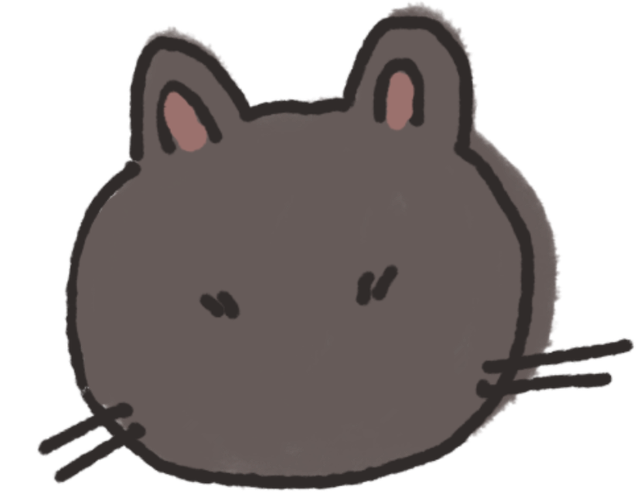
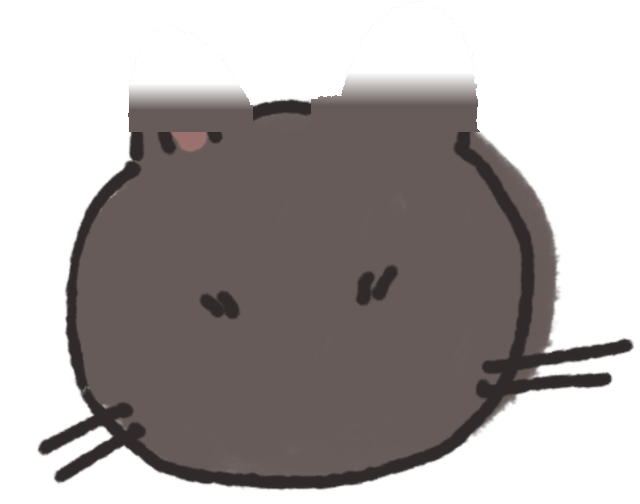
Ears go back to being an idle tell, and the drawn fold becomes a rare beat
Ear movement was reading as pet feedback: the artist's squash folds the ears as
part of one drawn gesture, so every tap spent the gesture and idle Hex never
moved her ears at all. In prod it was the other way round — a rare, unprompted
twitch that was hers rather than the player's. This puts it back.

The day coat is split into a head plus two ear layers. The head keeps a soft
collar of flat coat where each ear sat, so a moving ear reveals coat instead of a
hole — the same trick the old vector cat used with an unstroked headFill. Only
the day coat is split: she sleeps at night, the night art has no ear motion to
drive, and the old rig rested the ears at night too.

The gesture is a PERK — each ear scales up from its base — not the old rig's
rotation. Rotating a slice cut out of one continuous hand-drawn stroke always
nicks the line where the cut was, and at Hex's real size that nick is plainly
visible; scaling from the base leaves the join pixels exactly where they are, so
the outline stays whole. "Ears prick up" says what the flick was saying anyway.
earFlick is the twitch, earSwivel the held perk while prey is on screen; they add
rather than override, and each ear keeps its own schedule so they fire out of
sync.

The squash is graded to match. The ear fold cannot be subtracted from the drawn
frames, so instead an ordinary tap is clamped to the gentlest of them, where the
ears barely move, and the full three-frame fold is held back for the two beats
[…]

Changed region(s): [[0.4688, 0.0, 0.75, 0.2679], [0.1875, 0.0595, 0.4062, 0.2679]]

diff --git a/apps/hex-clicker/src/cat.js b/apps/hex-clicker/src/cat.js
@@ -8,6 +8,8 @@ import {
   hexCatEl,
   catMotionEl,
   catFaceEl,
+  earLeftEl,
+  earRightEl,
   irisLeftEl,
   irisRightEl,
   eyeLeftEl,
@@ -18,8 +20,12 @@ import { nightActive, zoomBuff } from "./state.js";
 import { goldState } from "./golden.js";
 import { petState } from "./pet.js";
 
-// Pet -> cat animation channel: pet() sets it, updateCat eases it back down.
-export const anim = { squash: 0 };
+// Pet -> cat animation channel: pet() sets these, updateCat eases squash back
+// down. `stir` is how BIG the reaction is, not how far through it we are: 0 is an
+// ordinary tap, 1 is one of the two beats the game already calls a bigger
+// reaction (a sustained day streak, or the night's annoyed grumble). It picks
+// which squash frames are allowed to play — see SQUASH_FRAMES.
+export const anim = { squash: 0, stir: 0 };
 
 // ---------------------------------------------------------------------------
 // CAT rendering — the SVG (#hexCat) is static markup; this just toggles
@@ -49,11 +55,21 @@ const PUPIL_ROUND = 1.14; // dilated
 // `anim.squash` decays 1 -> 0 at 0.08/frame (~12 frames, ~200ms), and these
 // thresholds cut that into three held steps plus the return to rest. Descending
 // order, because squash counts DOWN: hardest flatten first, easing back up.
+// GRADED, because the artist's squash folds the ears as part of the same drawn
+// gesture and there is no way to subtract them from it. Ear movement is supposed
+// to be an idle tell — rare, and hers rather than the player's — so the full
+// three-frame fold is held back for the two beats the game already treats as a
+// bigger reaction, and an ordinary tap only ever reaches the gentlest frame,
+// where the ears barely move. Petting still squashes on every tap; what it stops
+// doing is spending the ear gesture every time.
 const SQUASH_FRAMES = [
   [0.62, "s3"],   // flattest — ears folded right back
   [0.38, "s2"],
   [0.15, "s1"],   // barely dented; below this she's at rest
 ];
+// An ordinary tap is clamped to this one. Same decay, same timing — it just
+// never reaches for the harder two.
+const SQUASH_GENTLE = "s1";
 
 // ---------------------------------------------------------------------------
 // IDLE ANIMATIONS — one flag each, all independent. These are cat behaviours
@@ -70,7 +86,8 @@ export const IDLE = {
   yawn: true,             // one big yawn as she drops into the night phase
   dreamTwitch: true,      // rare whole-head jerk while dreaming
   headTilt: true,         // an occasional curious tip of the head
-  earSwivel: true,        // orients toward a golden mouse
+  earFlick: true,         // quick independent ear twitches
+  earSwivel: true,        // ears prick toward a golden mouse
 };
 // Three of these were named for parts the vector cat had as separate shapes and
 // the drawn cat has as painted pixels — there is no jaw, no whisker path and no
@@ -79,11 +96,10 @@ export const IDLE = {
 // quiver, whiskersForward became a lean, earSwivel became a head turn. The
 // flags keep their old names so the table still reads as a list of cat
 // behaviours rather than a list of transforms.
-// `earFlick` is the one that did NOT survive. It was two ears twitching
-// INDEPENDENTLY and out of sync with each other, and there is no honest way to
-// say that with one head — a whole-head twitch is the dream twitch, which
-// already exists. The squash frames fold her ears when she's petted; that is
-// the ear motion this art ships with.
+// `earFlick` and `earSwivel` are back on real ear elements — the day coat is
+// split into a head plus two ear layers, so the ears move on their own again.
+// Both are expressed as a perk from the ear's base rather than a rotation; see
+// updateEars for why.
 
 const SLOW_BLINK_MS = 1100;
 const PURR_MS = 900;              // purr keeps going this long after the last pet
@@ -139,8 +155,10 @@ export function updateCat(t) {
   // onto a black one for two frames.
   let pose = "day";
   if (asleep) pose = "night";
-  else for (const [threshold, name] of SQUASH_FRAMES)
-    if (anim.squash >= threshold) { pose = name; break; }
+  else if (anim.squash >= 0.15)
+    pose = anim.stir >= 1
+      ? SQUASH_FRAMES.find(([threshold]) => anim.squash >= threshold)[1]
+      : SQUASH_GENTLE;
   if (hexCatEl.dataset.pose !== pose) hexCatEl.dataset.pose = pose;
 
   // --- Lid overrides: the yawn and the slow blink -------------------------
@@ -271,6 +289,52 @@ export function updateCat(t) {
     const faceT = (rot || lean !== 1)
       ? `rotate(${rot.toFixed(2)}deg) scale(${lean})` : "";
     if (catFaceEl.style.transform !== faceT) catFaceEl.style.transform = faceT;
+  }
+
+  updateEars(t, asleep, alert);
+}
+
+// EARS — the idle tell, back on its own channel now the day coat is split.
+//
+// A perk, not the old rig's flick: each ear scales up from its BASE, so the
+// pixels where it joins the head never move and the drawn outline stays whole.
+// Rotating instead nicks that line visibly at Hex's real size, because the ear
+// is a slice cut out of one continuous stroke (see the pivot note in
+// index.html). "Ears prick up" says what the flick said anyway.
+//
+// Two behaviours on one channel, and they ADD rather than override: a sustained
+// perk while prey is on screen (the old earSwivel — she is orienting, and with
+// no rotation available the orienting reads as attention rather than direction),
+// plus the quick independent twitches on top. Each ear keeps its own schedule so
+// they fire out of sync, the way a real cat's do.
+const EAR_PERK_MS = 260;
+const EAR_TWITCH = 0.09;   // scaleY added at the peak of a twitch
+const EAR_ALERT = 0.05;    // held while a golden is out there
+const earStateL = { at: 0, start: -1 };
+const earStateR = { at: 0, start: -1 };
+function earTwitch(t, ear) {
+  if (!IDLE.earFlick) return 0;
+  if (!ear.at) ear.at = t + 2500 + Math.random() * 6000;
+  if (ear.start < 0 && t >= ear.at) { ear.start = t; ear.at = t + 3500 + Math.random() * 8000; }
+  if (ear.start < 0) return 0;
+  const e = t - ear.start;
+  if (e >= EAR_PERK_MS) { ear.start = -1; return 0; }
+  return EAR_TWITCH * Math.sin(Math.PI * e / EAR_PERK_MS);
+}
+function updateEars(t, asleep, alert) {
+  // Rest at night — the wall-reveal pose owns Hex then, and the night coat is
+  // one piece with the ears painted in, so there is nothing to drive anyway.
+  if (asleep) {
+    if (earLeftEl.style.transform) earLeftEl.style.transform = "";
+    if (earRightEl.style.transform) earRightEl.style.transform = "";
+    earStateL.at = earStateR.at = 0;
+    return;
+  }
+  const held = (IDLE.earSwivel && alert) ? EAR_ALERT : 0;
+  for (const [el, ear] of [[earLeftEl, earStateL], [earRightEl, earStateR]]) {
+    const s = 1 + held + earTwitch(t, ear);
+    const v = s === 1 ? "" : `scaleY(${s.toFixed(3)})`;
+    if (el.style.transform !== v) el.style.transform = v;
   }
 }
 

diff --git a/apps/hex-clicker/index.html b/apps/hex-clicker/index.html
@@ -410,11 +410,23 @@
      it from the decode queue in some engines and the first pet of the game would
      then flash an empty head while the PNG loads. All five decode at boot and
      stay decoded; only one is shown. */
-  #hexCat .headFrame { visibility: hidden; }
-  #hexCat[data-pose="day"] #headDay,
+  #hexCat .headFrame, #hexCat #coatDay { visibility: hidden; }
+  #hexCat[data-pose="day"] #coatDay,
   #hexCat[data-pose="s1"]  #headSquash1,
   #hexCat[data-pose="s2"]  #headSquash2,
   #hexCat[data-pose="s3"]  #headSquash3 { visibility: visible; }
+
+  /* EAR PIVOT. fill-box + 50% 100% puts the origin on the BASE of each ear's own
+     cropped box, and the idle gesture is a scaleY about that line — so the base
+     pixels do not move at all and the drawn outline stays joined to the head.
+     That is why this is a perk and not the old rig's rotation: rotating a slice
+     cut out of one continuous hand-drawn line always nicks it where the line was
+     cut, and at Hex's real size that nick is plainly visible. Scaling from the
+     base is invisible in the same place, and "ears prick up" is the same thing
+     the flick was saying. */
+  #hexCat .ear, #hexCat #earLeft, #hexCat #earRight {
+    transform-box: fill-box; transform-origin: 50% 100%;
+  }
 
   /* THE COAT CHANGE. Day and night are two drawings of the same cat, one brown
      and one black, and picking between them on a class flip cut from one to the
@@ -438,12 +450,12 @@
     transition: opacity 1.8s cubic-bezier(.22, .61, .36, 1);
   }
   #hexCat[data-pose="night"] #headNight { opacity: 1; }
-  #hexCat[data-pose="night"] #headDay {
+  #hexCat[data-pose="night"] #coatDay {
     visibility: hidden; transition: visibility 0s linear 1.8s;
   }
   @media (prefers-reduced-motion: reduce) {
     #hexCat #headNight { transition: none; }
-    #hexCat[data-pose="night"] #headDay { transition: none; }
+    #hexCat[data-pose="night"] #coatDay { transition: none; }
   }
 
   /* idle-motion pivot: the head tilts about the neck. The ears no longer have
@@ -1257,8 +1269,19 @@
            The eyes are painted OUT of these PNGs (inpainted with the surrounding
            coat) so the rigged pair below is the only pair on screen; leave them
            baked in and every blink would show a second, open eye underneath. -->
-      <image class="headFrame" id="headDay" href="/art/hex-day.png"
-             x="0" y="0" width="828" height="652"/>
+      <!-- The DAY coat, in three pieces so the ears can move on their own again.
+           The head has had its ears cut away and a soft collar of flat coat left
+           where each one sat, so a moving ear reveals coat rather than a hole —
+           the same trick the old vector cat used with an unstroked headFill.
+           Only the day coat is split: she sleeps at night, and the ears rested
+           at night in the old rig too, so the night art stays one piece. -->
+      <g id="coatDay">
+       <image id="headDay" href="/art/hex-day.png" x="0" y="0" width="828" height="652"/>
+       <g id="earLeft"><image href="/art/hex-day-earL.png"
+          x="165.6" y="33.6" width="161.7" height="137.1"/></g>
+       <g id="earRight"><image href="/art/hex-day-earR.png"
+          x="402.4" y="2.6" width="218.6" height="168.2"/></g>
+      </g>
       <image class="headFrame" id="headSquash1" href="/art/hex-squash1.png"
              x="0" y="0" width="828" height="652"/>
       <image class="headFrame" id="headSquash2" href="/art/hex-squash2.png"

diff --git a/apps/hex-clicker/src/pet.js b/apps/hex-clicker/src/pet.js
@@ -39,11 +39,11 @@ export function pet(clientX, clientY) {
     nightPokes++;
     lastPokeAt = now;
     if (nightPokes >= NIGHT_GRUMBLE_POKES) {
-      anim.squash = 1; // a bigger, annoyed stir
+      anim.squash = 1; anim.stir = 1; // a bigger, annoyed stir
       floatNum(x, y, "grr…");
       nightPokes = 0;
     } else {
-      anim.squash = 0.6; // a gentle half-stir
+      anim.squash = 0.6; anim.stir = 0; // a gentle half-stir
       floatNum(x, y, "Zzz");
     }
     return; // no mice, no mouse-pop, no HUD write, nothing sent
@@ -63,7 +63,11 @@ export function pet(clientX, clientY) {
       (clientY - cat.top) / cat.height,
     ),
   );
+  // Every tap squashes; only a sustained one spends the ear gesture. `stir` is
+  // reset here and raised below on the streak beat, so it describes THIS tap
+  // rather than lingering from the last one.
   anim.squash = 1;
+  anim.stir = 0;
 
   const now = performance.now();
   if (now - petState.lastPetAt > PET_STREAK_WINDOW_MS) petState.petStreak = 0;
@@ -77,6 +81,10 @@ export function pet(clientX, clientY) {
   ) {
     petState.slowBlinkStart = now;
     petState.petStreak = 0;
+    // The one day beat that earns the full drawn squash — the same threshold
+    // that earns the slow blink, so "she really is being petted" has one meaning
+    // in this file rather than two.
+    anim.stir = 1;
   }
 
   floatNum(x, y, "+" + fmt(gain));

diff --git a/apps/hex-clicker/src/dom.js b/apps/hex-clicker/src/dom.js
@@ -32,10 +32,12 @@ export const catMotionEl = $("#catMotion");
 export const catFaceEl = $("#catFace");
 // #eyeLeft/#eyeRight are the LIDS, #irisLeft/#irisRight inside them are the
 // LOOK — see the eye block in index.html for why the pair is split that way.
-// The old #earLeft/#earRight/#whiskers/#mouth refs are gone with the vector cat:
-// the drawn head carries ears, whiskers and muzzle as painted pixels, so there
-// is nothing left to address individually. cat.js re-expresses what those used
-// to say through the channels the drawing does have.
+// #earLeft/#earRight are back: the day coat is split into a head plus two ear
+// layers, so the ears have their own channel again (a perk from the base — see
+// the pivot note in index.html). #whiskers and #mouth are still gone, since the
+// drawn head carries those as painted pixels with nothing to address.
+export const earLeftEl = $("#earLeft");
+export const earRightEl = $("#earRight");
 export const irisLeftEl = $("#irisLeft");
 export const irisRightEl = $("#irisRight");
 export const eyeLeftEl = $("#eyeLeft");
